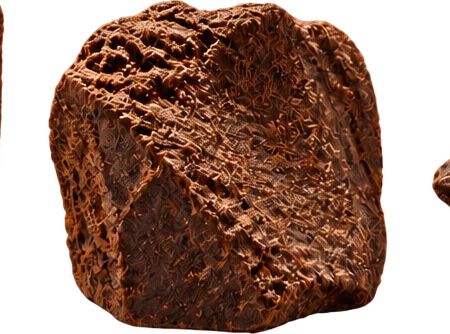
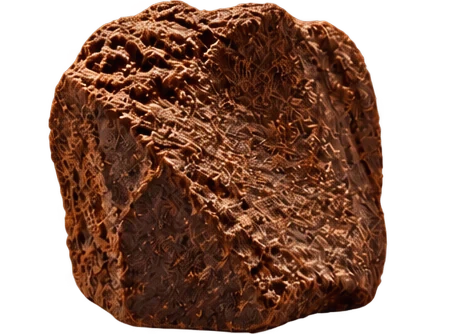
Remove hero chocolate image artifacts

Changed region(s): [[0.9333, 0.4491, 1.0, 0.6287], [0.0, 0.0299, 0.0311, 0.3593]]

diff --git a/scripts/verify-home-hero-pyramid.spec.js b/scripts/verify-home-hero-pyramid.spec.js
@@ -21,6 +21,10 @@ function overlaps(a, b) {
   return a.left < b.right && a.right > b.left && a.top < b.bottom && a.bottom > b.top;
 }
 
+function renderHeroDocument() {
+  return `<body class="home"><main>${renderHeroAssets(hero)}</main><style>${styles}</style></body>`;
+}
+
 (async () => {
   assert(hero, 'Homepage hero must exist');
   assert.match(hero, /<h1[^>]*class="screen-reader-text"[^>]*>Абсолютно натуральный шоколад<\/h1>/,
@@ -34,7 +38,7 @@ function overlaps(a, b) {
   const browser = await chromium.launch({ channel: 'chrome', headless: true });
   try {
     const page = await browser.newPage({ viewport: { width: 1440, height: 900 } });
-    await page.setContent(`<main>${hero.replace(/<\?php[\s\S]*?\?>/g, '#')}</main>`);
+    await page.setContent(renderHeroDocument());
     await page.addScriptTag({ content: script });
 
     const pyramid = page.locator('.home-chocolate-pyramid');
@@ -43,6 +47,9 @@ function overlaps(a, b) {
       'Clicking the pyramid must start with a short anticipation beat');
     assert.equal(await pyramid.getAttribute('aria-busy'), 'true',
       'The pyramid must expose its animation state to assistive technology');
+    await pyramid.click();
+    assert.equal(await pyramid.getAttribute('data-state'), 'anticipating',
+      'Repeated clicks must not restart an animation already in progress');
 
     await page.waitForFunction(() => document.querySelector('.home-chocolate-pyramid')?.dataset.state === 'collapsed', null, { timeout: 800 });
     await page.waitForFunction(() => document.querySelector('.home-chocolate-pyramid')?.dataset.state === 'reassembling', null, { timeout: 4200 });
@@ -54,7 +61,7 @@ function overlaps(a, b) {
       'The pyramid must automatically return to its idle state');
 
     const reducedPage = await browser.newPage({ viewport: { width: 390, height: 844 }, reducedMotion: 'reduce' });
-    await reducedPage.setContent(`<main>${hero.replace(/<\?php[\s\S]*?\?>/g, '#')}</main>`);
+    await reducedPage.setContent(renderHeroDocument());
     await reducedPage.addScriptTag({ content: script });
     const reducedPyramid = reducedPage.locator('.home-chocolate-pyramid');
     await reducedPyramid.click();
@@ -62,20 +69,22 @@ function overlaps(a, b) {
       'Reduced-motion users must not see the pieces jump to their collapsed positions');
     await reducedPage.close();
 
-    for (const width of [390, 1440, 2560]) {
+    for (const width of [320, 390, 600, 601, 768, 1199, 1200, 1440, 2560, 3200]) {
       const layoutPage = await browser.newPage({ viewport: { width, height: 900 } });
-      await layoutPage.setContent(`<body class="home"><main>${renderHeroAssets(hero)}</main><style>${styles}</style></body>`);
+      await layoutPage.setContent(renderHeroDocument());
       const scale = await layoutPage.evaluate(() => ({
         heroHeight: document.querySelector('.home-hero').getBoundingClientRect().height,
         pyramidWidth: document.querySelector('.home-chocolate-pyramid').getBoundingClientRect().width,
         fallDurationMs: parseFloat(getComputedStyle(document.querySelector('.home-chocolate-pyramid__piece')).transitionDuration) * 1000,
       }));
-      const minimumPyramidWidth = width === 390 ? 285 : (width === 1440 ? 500 : 650);
-      const minimumHeroHeight = width === 390 ? 480 : 470;
+      const minimumPyramidWidth = width <= 600
+        ? Math.min(285, width * 0.72)
+        : (width < 1200 ? 300 : Math.min(650, width * 0.34));
+      const minimumHeroHeight = width <= 600 ? 480 : (width < 1200 ? 448 : 430);
       assert(scale.pyramidWidth >= minimumPyramidWidth,
         `${width}px pyramid must be visually dominant (expected at least ${minimumPyramidWidth}px, got ${scale.pyramidWidth}px)`);
       assert(scale.heroHeight >= minimumHeroHeight,
-        `${width}px hero must provide enough stage height for the larger pyramid`);
+        `${width}px hero must provide enough stage height for the larger pyramid (expected at least ${minimumHeroHeight}px, got ${scale.heroHeight}px)`);
       assert(scale.fallDurationMs >= 1350 && scale.fallDurationMs <= 1600,
         `${width}px collapse must remain weighty and readable (expected 1350-1600ms, got ${scale.fallDurationMs}ms)`);
       await layoutPage.locator('.home-chocolate-pyramid').evaluate((node) => { node.dataset.state = 'collapsed'; });
@@ -89,6 +98,55 @@ function overlaps(a, b) {
           overlaps(piece, content) ? [{ piece: pieceIndex + 1, content: contentIndex + 1 }] : []
         )));
         assert.deepEqual(collisions, [], `${width}px chocolate pieces must not overlap hero content at ${elapsed}ms of collapse`);
+      }
+
+      if (width === 1440) {
+        const componentCounts = await layoutPage.evaluate(async () => {
+          const images = Array.from(document.querySelectorAll('.home-chocolate-pyramid__piece img'));
+          await Promise.all(images.map((image) => image.decode()));
+
+          return images.map((image) => {
+            const canvas = document.createElement('canvas');
+            canvas.width = image.naturalWidth;
+            canvas.height = image.naturalHeight;
+            const context = canvas.getContext('2d', { willReadFrequently: true });
+            context.drawImage(image, 0, 0);
+            const pixels = context.getImageData(0, 0, canvas.width, canvas.height).data;
+            const visited = new Uint8Array(canvas.width * canvas.height);
+            let meaningfulComponents = 0;
+
+            for (let start = 0; start < visited.length; start += 1) {
+              if (visited[start] || pixels[start * 4 + 3] < 20) continue;
+              visited[start] = 1;
+              const queue = [start];
+              let area = 0;
+
+              for (let cursor = 0; cursor < queue.length; cursor += 1) {
+                const current = queue[cursor];
+                area += 1;
+                const x = current % canvas.width;
+                const neighbors = [
+                  current - canvas.width,
+                  current + canvas.width,
+                  x > 0 ? current - 1 : -1,
+                  x + 1 < canvas.width ? current + 1 : -1,
+                ];
+                for (const neighbor of neighbors) {
+                  if (neighbor < 0 || neighbor >= visited.length || visited[neighbor]
+                    || pixels[neighbor * 4 + 3] < 20) continue;
+                  visited[neighbor] = 1;
+                  queue.push(neighbor);
+                }
+              }
+
+              if (area >= 100) meaningfulComponents += 1;
+            }
+
+            return meaningfulComponents;
+          });
+        });
+        assert.deepEqual(componentCounts, [1, 1, 1, 1, 1, 1, 1],
+          `Each chocolate asset must contain one connected piece without floating fragments (got ${componentCounts.join(', ')})`);
       }
       await layoutPage.close();
     }
